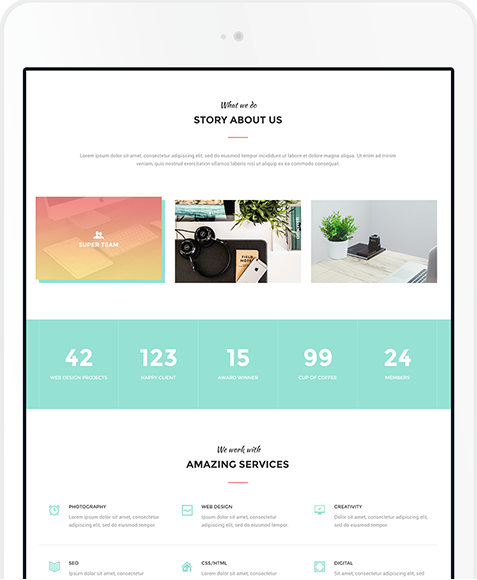
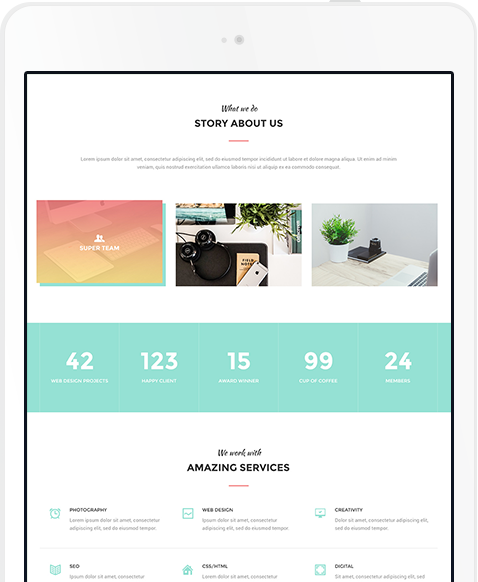
update!

diff --git a/index.html b/index.html
@@ -227,8 +227,97 @@
 		</div>
 
 		<div class="devices">
-			<img class="devices" src="images/features/ipad.png" alt="Планшет Apple - Ipad">
+			<img class="devices__item" src="images/features/ipad.png" alt="Планшет Apple - Ipad">
+
+			<img class="devices__item devices__item--iphone" src="images/features/iphone.png" alt="Айфон">
 		</div>
+
+	</div> <!-- .container end -->
+</section> <!-- .section end -->
+
+
+<section class="section">
+	<div class="container">
+
+		<div class="section__header">
+			<h3 class="section__suptitle">Service</h3>
+			<h2 class="section__title">What We Do</h2>
+			<div class="section__text">
+				<p>Lorem ipsum dolor sit amet, consectetur adipiscing elit, sed do eiusmod tempor incididunt ut labore et dolore magna aliqua. Ut enim ad minim veniam, quis nostrud exercitation ullamco laboris nisi ut aliquip ex ea commodo consequat.</p> 
+			</div>
+		</div>
+
+		<div class="wedo">
+			<div class="wedo__item">
+				<img src="http://placehold.it/570x380" alt="">
+			</div> <!-- .wedo__item(1) end -->
+
+			<div class="wedo__item">
+
+				<div class="accordion">
+
+					<div class="accordion__item active">
+						<div class="accordion__header">
+							
+							<div class="accordion__icon">
+								<img src="images/accordion/1.png" alt="">
+							</div>
+
+							<div class="accordion__title">
+								Photography
+							</div>
+						</div>
+
+						<div class="accordion__content">
+							<p>
+								Lorem ipsum dolor sit amet, consectetur adipiscing elit, sed do eiusmod tempor incididunt ut labore et dolore magna aliqua. Ut enim ad minim veniam, quis nostrud exercitation ullamco laboris nisi ut aliquip ex ea commodo consequat. Duis aute irure dolor in reprehenderit in voluptate velit esse cillum dolore eu fugiat nulla pariatur. Excepteur sint occaecat cupidatat non proident, sunt in culpa qui officia deserunt mollit anim id est laborum.
+							</p>
+						</div>
+					</div> <!-- .accordion__item(1) end -->
+
+					<div class="accordion__item">
+						<div class="accordion__header">
+							
+							<div class="accordion__icon">
+								<img src="images/accordion/2.png" alt="">
+							</div>
+
+							<div class="accordion__title">
+								Creativity
+							</div>
+						</div>
+
+						<div class="accordion__content">
+							<p>
+								Lorem ipsum dolor sit amet, consectetur adipiscing elit, sed do eiusmod tempor incididunt ut labore et dolore magna aliqua. Ut enim ad minim veniam, quis nostrud exercitation ullamco laboris nisi ut aliquip ex ea commodo consequat. Duis aute irure dolor in reprehenderit in voluptate velit esse cillum dolore eu fugiat nulla pariatur. Excepteur sint occaecat cupidatat non proident, sunt in culpa qui officia deserunt mollit anim id est laborum.
+							</p>
+						</div>
+					</div> <!-- .accordion__item(2) end -->
+
+					<div class="accordion__item">
+						<div class="accordion__header">
+							
+							<div class="accordion__icon">
+								<img src="images/accordion/3.png" alt="">
+							</div>
+
+							<div class="accordion__title">
+								Web Design
+							</div>
+						</div>
+
+						<div class="accordion__content">
+							<p>
+								Lorem ipsum dolor sit amet, consectetur adipiscing elit, sed do eiusmod tempor incididunt ut labore et dolore magna aliqua. Ut enim ad minim veniam, quis nostrud exercitation ullamco laboris nisi ut aliquip ex ea commodo consequat. Duis aute irure dolor in reprehenderit in voluptate velit esse cillum dolore eu fugiat nulla pariatur. Excepteur sint occaecat cupidatat non proident, sunt in culpa qui officia deserunt mollit anim id est laborum.
+							</p>
+						</div>
+					</div> <!-- .accordion__item(3) end -->
+
+
+				</div> <!-- .accordion end -->
+
+			</div> <!-- .wedo__item(2) end -->
+		</div> <!--.wedo end -->
 
 	</div> <!-- .container end -->
 </section> <!-- .section end -->

diff --git a/css/main.css b/css/main.css
@@ -244,6 +244,9 @@ hr {
 }
 
 .section--devices {
+    margin-bottom: 40px;
+    padding-bottom: 0;
+
     background: url("../images/features/devices-bg.jpg") center no-repeat;
     background-size: cover;
 }
@@ -426,6 +429,8 @@ hr {
 /* Devices */
 
 .devices {
+    position: relative;
+
     width: 100%;
     max-width: 600px;
 
@@ -434,5 +439,98 @@ hr {
 
 .devices__item {
     display: block;
-    
+}
+
+.devices__item--iphone {
+    position: absolute;
+    bottom: -80px;
+    right: 0;
+    z-index: 1;
+}
+
+/* We do */
+
+.wedo {
+    display: flex;
+}
+
+.wedo__item {
+    width: 50%;
+}
+
+/* Accordion */
+
+.accordion__item {
+    border: 1px solid #e5e5e5;
+    margin-bottom: 10px;
+}
+
+.accordion__item.active
+.accordion__content {
+    display: block;
+}
+
+.accordion__item.active
+.accordion__header {
+    border-bottom-color: #e5e5e5;
+}
+
+.accordion__item.active
+.accordion__header:after {
+    transform: translateY(-50%) rotate(-45deg);
+    margin-top: 5px;
+}
+
+.accordion__header {
+    position: relative;
+
+    padding: 15px 20px 15px 65px;
+    border-bottom: 1px solid transparent;
+
+    cursor: pointer;
+}
+
+.accordion__header:after {
+    content: "";
+    display: block;
+
+    width: 15px;
+    height: 15px;
+
+    border-top: 2px solid #ccc;
+    border-right: 2px solid #ccc;
+
+    position: absolute;
+    top: 50%;
+    right: 20px;
+    z-index: 1;
+
+    transform: translateY(-50%) rotate(135deg);
+}
+
+.accordion__icon {
+    position: absolute;
+    top: 50%;
+    left: 20px;
+    z-index: 1;
+
+    transform: translateY(-50%);
+}
+
+.accordion__content {
+    display: none;
+
+    font-size: 15px;
+    font-weight: 300;
+    font-style: italic;
+
+    padding: 15px 20px;
+    color: #999;
+}
+
+.accordion__title {
+    font-size: 14px;
+
+    text-transform: uppercase;
+    color: #333;
 }
